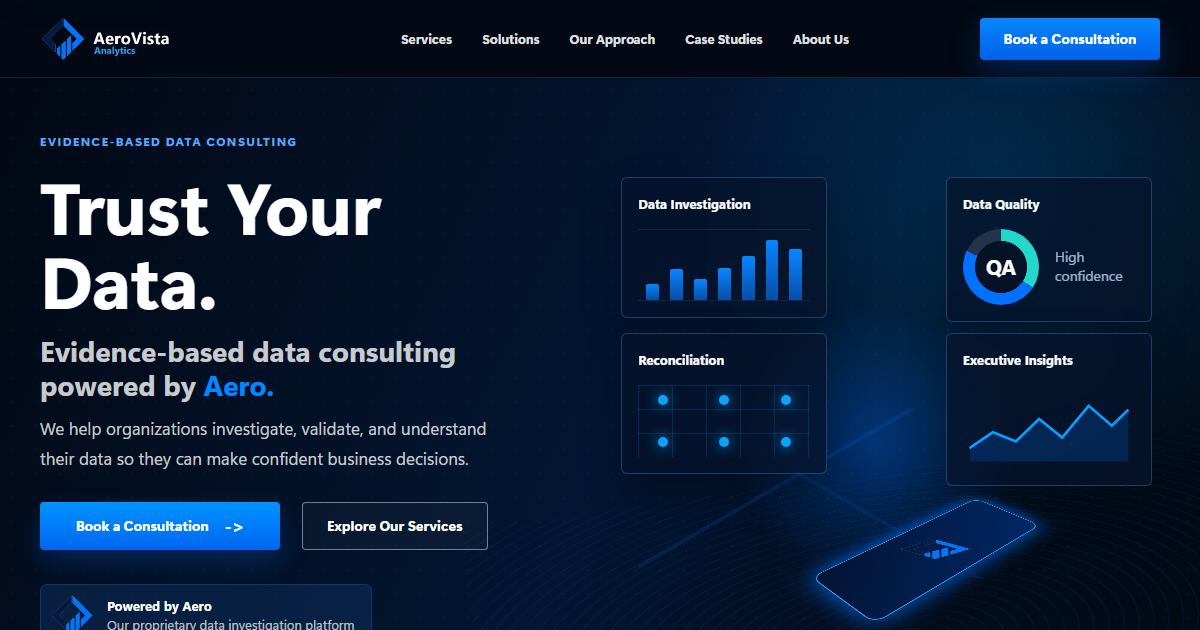
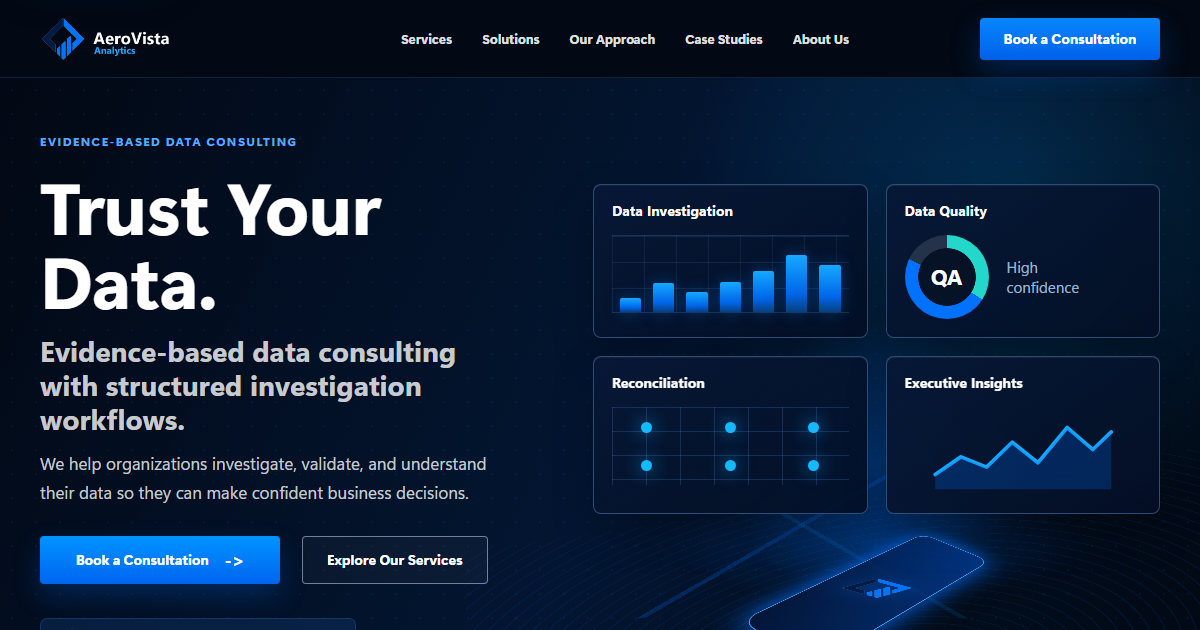
Clarify homepage hero visual

diff --git a/styles.css b/styles.css
@@ -3559,61 +3559,72 @@ body.home-render {
 
 .render-hero-visual {
   position: relative;
+  display: grid;
+  grid-template-columns: repeat(2, minmax(0, 1fr));
+  gap: 18px;
+  align-content: start;
   min-height: 430px;
+  padding: 6px 0 122px;
 }
 
 .render-hero-visual::before {
   position: absolute;
-  right: 8%;
-  bottom: 26px;
-  left: 8%;
-  height: 170px;
+  right: 4%;
+  bottom: 18px;
+  left: 4%;
+  height: 150px;
   background:
-    linear-gradient(150deg, transparent 0 35%, rgba(0, 114, 255, 0.22) 35% 36%, transparent 36% 100%),
-    linear-gradient(30deg, transparent 0 44%, rgba(0, 114, 255, 0.15) 44% 45%, transparent 45% 100%);
-  opacity: 0.7;
+    radial-gradient(ellipse at center, rgba(0, 114, 255, 0.28), transparent 58%),
+    linear-gradient(150deg, transparent 0 36%, rgba(0, 114, 255, 0.26) 36% 37%, transparent 37% 100%),
+    linear-gradient(30deg, transparent 0 44%, rgba(0, 163, 255, 0.16) 44% 45%, transparent 45% 100%);
+  opacity: 0.86;
   content: "";
 }
 
 .data-panel {
-  position: absolute;
-  width: 206px;
-  min-height: 124px;
-  padding: 16px;
-  background: rgba(5, 19, 42, 0.74);
-  border: 1px solid rgba(113, 179, 255, 0.28);
-  border-radius: 6px;
-  box-shadow: 0 18px 42px rgba(0, 0, 0, 0.24);
-  backdrop-filter: blur(8px);
+  position: relative;
+  z-index: 1;
+  width: auto;
+  min-height: 138px;
+  padding: 18px;
+  overflow: hidden;
+  background:
+    linear-gradient(145deg, rgba(7, 24, 54, 0.96), rgba(3, 15, 37, 0.92));
+  border: 1px solid rgba(122, 190, 255, 0.34);
+  border-radius: 8px;
+  box-shadow:
+    inset 0 1px 0 rgba(255, 255, 255, 0.06),
+    0 18px 42px rgba(0, 0, 0, 0.24);
 }
 
 .data-panel p {
-  margin: 0 0 14px;
+  margin: 0 0 16px;
   color: #ffffff;
-  font-size: 13px;
-  font-weight: 850;
-}
-
-.panel-bars {
-  top: 2px;
-  left: 28px;
+  font-size: 14px;
+  font-weight: 900;
+  line-height: 1.15;
 }
 
 .panel-bars div {
   display: flex;
-  height: 72px;
+  height: 78px;
   align-items: end;
-  gap: 11px;
-  padding: 0 8px;
-  border-top: 1px solid rgba(124, 179, 255, 0.12);
-  border-bottom: 1px solid rgba(124, 179, 255, 0.12);
+  gap: 12px;
+  padding: 10px 8px 0;
+  background:
+    linear-gradient(rgba(98, 173, 255, 0.12) 1px, transparent 1px),
+    linear-gradient(90deg, rgba(98, 173, 255, 0.1) 1px, transparent 1px);
+  background-size: 100% 26px, 32px 100%;
+  border-top: 1px solid rgba(124, 179, 255, 0.18);
+  border-bottom: 1px solid rgba(124, 179, 255, 0.18);
 }
 
 .panel-bars span {
   display: block;
   flex: 1;
-  background: linear-gradient(180deg, #0786ff, #064ea8);
+  background: linear-gradient(180deg, #16a8ff, #0066e8 68%, #074082);
   border-radius: 2px 2px 0 0;
+  box-shadow: 0 0 16px rgba(0, 132, 255, 0.34);
 }
 
 .panel-bars span:nth-child(1) { height: 22%; }
@@ -3625,11 +3636,9 @@ body.home-render {
 .panel-bars span:nth-child(7) { height: 72%; }
 
 .panel-score {
-  top: 2px;
-  right: 8px;
   display: grid;
-  grid-template-columns: 78px 1fr;
-  column-gap: 14px;
+  grid-template-columns: 86px 1fr;
+  column-gap: 16px;
   align-items: center;
 }
 
@@ -3639,8 +3648,8 @@ body.home-render {
 
 .score-ring {
   display: grid;
-  width: 76px;
-  height: 76px;
+  width: 84px;
+  height: 84px;
   place-items: center;
   background:
     radial-gradient(circle at center, #061326 0 48%, transparent 49%),
@@ -3650,81 +3659,77 @@ body.home-render {
 
 .score-ring strong {
   color: #ffffff;
-  font-size: 21px;
+  font-size: 22px;
 }
 
 .panel-score > span {
   color: rgba(197, 224, 255, 0.78);
-  font-size: 14px;
+  font-size: 15px;
   line-height: 1.35;
-}
-
-.panel-grid {
-  top: 158px;
-  left: 28px;
 }
 
 .panel-grid div {
   display: grid;
   grid-template-columns: repeat(3, 1fr);
-  gap: 13px;
-  min-height: 72px;
+  gap: 14px;
+  min-height: 78px;
+  padding: 8px 0;
   background:
-    linear-gradient(rgba(50, 142, 255, 0.18) 1px, transparent 1px),
-    linear-gradient(90deg, rgba(50, 142, 255, 0.18) 1px, transparent 1px);
+    linear-gradient(rgba(82, 160, 255, 0.2) 1px, transparent 1px),
+    linear-gradient(90deg, rgba(82, 160, 255, 0.2) 1px, transparent 1px);
   background-size: 34px 24px;
 }
 
 .panel-grid span {
-  width: 10px;
-  height: 10px;
+  width: 11px;
+  height: 11px;
   place-self: center;
-  background: #0aa3ff;
+  background: #15b9ff;
   border-radius: 50%;
-  box-shadow: 0 0 14px rgba(0, 163, 255, 0.9);
-}
-
-.panel-line {
-  top: 158px;
-  right: 8px;
+  box-shadow: 0 0 18px rgba(0, 163, 255, 0.95);
 }
 
 .panel-line svg {
   width: 100%;
-  height: 84px;
+  height: 88px;
 }
 
 .panel-line polyline {
   fill: none;
-  stroke: #0aa3ff;
-  stroke-width: 4;
+  stroke: #13aaff;
+  stroke-width: 5;
+  stroke-linecap: round;
+  stroke-linejoin: round;
 }
 
 .panel-line path {
-  fill: rgba(0, 114, 255, 0.2);
+  fill: rgba(0, 114, 255, 0.24);
 }
 
 .aero-platform {
   position: absolute;
-  right: 110px;
-  bottom: 10px;
+  z-index: 0;
+  right: 50%;
+  bottom: 0;
   display: grid;
-  width: 230px;
-  height: 92px;
+  width: 252px;
+  height: 96px;
   place-items: center;
-  background: linear-gradient(145deg, rgba(2, 19, 50, 0.98), rgba(0, 45, 118, 0.82));
+  background:
+    linear-gradient(145deg, rgba(3, 20, 52, 0.98), rgba(0, 58, 146, 0.82));
   border: 1px solid rgba(70, 172, 255, 0.9);
-  border-radius: 12px;
+  border-radius: 16px;
   box-shadow:
-    0 0 28px rgba(0, 114, 255, 0.9),
+    0 0 34px rgba(0, 114, 255, 0.92),
     0 24px 70px rgba(0, 0, 0, 0.38);
-  transform: perspective(500px) rotateX(58deg) rotateZ(-45deg);
+  transform: translateX(50%) perspective(520px) rotateX(58deg) rotateZ(-45deg);
 }
 
 .aero-platform img {
   width: 72px;
   height: 72px;
   object-fit: contain;
+  filter: drop-shadow(0 0 16px rgba(0, 114, 255, 0.38));
   transform: rotate(45deg) rotateX(-58deg);
 }
 
@@ -4054,11 +4059,12 @@ body.home-render {
   }
 
   .data-panel {
-    width: 190px;
+    width: auto;
   }
 
   .aero-platform {
-    right: 88px;
+    right: 50%;
+    width: 226px;
   }
 }
 
@@ -4151,6 +4157,7 @@ body.home-render {
   .render-hero-visual {
     min-height: 390px;
     max-width: 620px;
+    padding-bottom: 118px;
   }
 
   .render-service-grid {
@@ -4198,7 +4205,9 @@ body.home-render {
   }
 
   .render-hero-visual {
-    min-height: 620px;
+    grid-template-columns: 1fr;
+    min-height: auto;
+    padding-bottom: 0;
   }
 
   .data-panel {

diff --git a/about.html b/about.html
@@ -19,7 +19,7 @@
     <meta name="twitter:image" content="https://aerovistaanalytics.com/assets/aerovista-social-card.png">
     <link rel="icon" href="assets/favicon.png" type="image/png">
     <link rel="manifest" href="site.webmanifest">
-    <link rel="stylesheet" href="styles.css?v=20260713-launch">
+    <link rel="stylesheet" href="styles.css?v=20260713-clear-visual">
   </head>
   <body class="render-page">
     <a class="skip-link" href="#main-content">Skip to main content</a>

diff --git a/case-studies.html b/case-studies.html
@@ -19,7 +19,7 @@
     <meta name="twitter:image" content="https://aerovistaanalytics.com/assets/aerovista-social-card.png">
     <link rel="icon" href="assets/favicon.png" type="image/png">
     <link rel="manifest" href="site.webmanifest">
-    <link rel="stylesheet" href="styles.css?v=20260713-launch">
+    <link rel="stylesheet" href="styles.css?v=20260713-clear-visual">
   </head>
   <body class="render-page">
     <a class="skip-link" href="#main-content">Skip to main content</a>

diff --git a/case-studies/nafi-membership-data-migration/index.html b/case-studies/nafi-membership-data-migration/index.html
@@ -19,7 +19,7 @@
     <meta name="twitter:image" content="https://aerovistaanalytics.com/assets/aerovista-social-card.png">
     <link rel="icon" href="../../assets/favicon.png" type="image/png">
     <link rel="manifest" href="../../site.webmanifest">
-    <link rel="stylesheet" href="../../styles.css?v=20260713-launch">
+    <link rel="stylesheet" href="../../styles.css?v=20260713-clear-visual">
   </head>
   <body class="render-page">
     <a class="skip-link" href="#main-content">Skip to main content</a>

diff --git a/contact.html b/contact.html
@@ -1,6 +1,6 @@
 <!doctype html>
 <html lang="en">
-  <head><meta charset="utf-8"><meta name="viewport" content="width=device-width, initial-scale=1"><title>Contact AeroVista Analytics | Book a Consultation</title><meta name="description" content="Contact AeroVista Analytics to schedule a consultation for data trust, migration readiness, reconciliation, executive reporting, or data investigation consulting."><link rel="canonical" href="https://aerovistaanalytics.com/contact.html"><meta name="theme-color" content="#061a42"><meta property="og:type" content="website"><meta property="og:site_name" content="AeroVista Analytics"><meta property="og:title" content="Contact AeroVista Analytics | Book a Consultation"><meta property="og:description" content="Start a conversation about data trust, migration readiness, reconciliation, executive reporting, or data investigation."><meta property="og:url" content="https://aerovistaanalytics.com/contact.html"><meta property="og:image" content="https://aerovistaanalytics.com/assets/aerovista-social-card.png"><meta name="twitter:card" content="summary_large_image"><meta name="twitter:title" content="Contact AeroVista Analytics | Book a Consultation"><meta name="twitter:description" content="Start a conversation about a messy data, reconciliation, reporting, or migration readiness challenge."><meta name="twitter:image" content="https://aerovistaanalytics.com/assets/aerovista-social-card.png"><link rel="icon" href="assets/favicon.png" type="image/png"><link rel="manifest" href="site.webmanifest"><link rel="stylesheet" href="styles.css?v=[phone redacted]-launch"></head>
+  <head><meta charset="utf-8"><meta name="viewport" content="width=device-width, initial-scale=1"><title>Contact AeroVista Analytics | Book a Consultation</title><meta name="description" content="Contact AeroVista Analytics to schedule a consultation for data trust, migration readiness, reconciliation, executive reporting, or data investigation consulting."><link rel="canonical" href="https://aerovistaanalytics.com/contact.html"><meta name="theme-color" content="#061a42"><meta property="og:type" content="website"><meta property="og:site_name" content="AeroVista Analytics"><meta property="og:title" content="Contact AeroVista Analytics | Book a Consultation"><meta property="og:description" content="Start a conversation about data trust, migration readiness, reconciliation, executive reporting, or data investigation."><meta property="og:url" content="https://aerovistaanalytics.com/contact.html"><meta property="og:image" content="https://aerovistaanalytics.com/assets/aerovista-social-card.png"><meta name="twitter:card" content="summary_large_image"><meta name="twitter:title" content="Contact AeroVista Analytics | Book a Consultation"><meta name="twitter:description" content="Start a conversation about a messy data, reconciliation, reporting, or migration readiness challenge."><meta name="twitter:image" content="https://aerovistaanalytics.com/assets/aerovista-social-card.png"><link rel="icon" href="assets/favicon.png" type="image/png"><link rel="manifest" href="site.webmanifest"><link rel="stylesheet" href="styles.css?v=[phone redacted]-clear-visual"></head>
   <body class="render-page"><a class="skip-link" href="#main-content">Skip to main content</a><header class="site-header"><div class="container header-inner"><a class="brand" href="index.html" aria-label="AeroVista Analytics home"><img src="assets/aerovista-logo-exact-light.png" alt="AeroVista Analytics"></a><button class="nav-toggle" type="button" aria-label="Open navigation" aria-expanded="false" aria-controls="site-nav"><span></span><span></span><span></span></button><nav class="site-nav" id="site-nav" aria-label="Primary navigation"><a href="services.html">Services</a><a href="plans.html">Solutions</a><a href="process.html">Our Approach</a><a href="case-studies.html">Case Studies</a><a href="about.html">About Us</a></nav><a class="header-cta" href="contact.html">Book a Consultation</a></div></header>
     <main id="main-content"><section class="page-hero"><div class="container page-hero-inner"><p>Contact</p><h1>Schedule a Consultation</h1><a class="btn btn-secondary" href="mailto:[email redacted]">Email AeroVista Directly</a></div></section>
       <section class="section request-section"><div class="container request-grid"><div class="request-copy"><div class="section-heading"><p>Get Started</p><h2>Tell Me About the Data Challenge</h2><span aria-hidden="true"></span></div><p>Share what you are working on, and I will follow up with next steps, availability, and a practical approach tailored to your goals.</p><div class="contact-methods" aria-label="Contact methods"><a href="mailto:[email redacted]"><svg viewBox="0 0 24 24" aria-hidden="true"><path d="M4 6h16v12H4V6Z"></path><path d="m4 7 8 6 8-6"></path></svg>[email redacted]</a><span><svg viewBox="0 0 24 24" aria-hidden="true"><path d="M12 21s7-6.2 7-12A7 7 0 0 0 5 9c0 5.8 7 12 7 12Z"></path><circle cx="12" cy="9" r="2.5"></circle></svg>Leesburg, VA</span></div></div>

diff --git a/index.html b/index.html
@@ -24,7 +24,7 @@
     <meta name="twitter:image" content="https://aerovistaanalytics.com/assets/aerovista-social-card.png">
     <link rel="icon" href="assets/favicon.png" type="image/png">
     <link rel="manifest" href="site.webmanifest">
-    <link rel="stylesheet" href="styles.css?v=20260713-launch">
+    <link rel="stylesheet" href="styles.css?v=20260713-clear-visual">
     <script type="application/ld+json">
       {
         "@context": "https://schema.org",

diff --git a/plans.html b/plans.html
@@ -1,6 +1,6 @@
 <!doctype html>
 <html lang="en">
-  <head><meta charset="utf-8"><meta name="viewport" content="width=device-width, initial-scale=1"><title>Data Trust Solutions | AeroVista Analytics</title><meta name="description" content="Customized AeroVista Analytics solutions for data trust audits, migration readiness, reconciliation, executive reporting, and data investigation."><link rel="canonical" href="https://aerovistaanalytics.com/plans.html"><meta name="theme-color" content="#061a42"><meta property="og:type" content="website"><meta property="og:site_name" content="AeroVista Analytics"><meta property="og:title" content="Data Trust Solutions | AeroVista Analytics"><meta property="og:description" content="Customized consulting solutions for messy data, migration readiness, reconciliation, executive reporting, and investigation."><meta property="og:url" content="https://aerovistaanalytics.com/plans.html"><meta property="og:image" content="https://aerovistaanalytics.com/assets/aerovista-social-card.png"><meta name="twitter:card" content="summary_large_image"><meta name="twitter:title" content="Data Trust Solutions | AeroVista Analytics"><meta name="twitter:description" content="Customized consulting solutions for complex business data problems."><meta name="twitter:image" content="https://aerovistaanalytics.com/assets/aerovista-social-card.png"><link rel="icon" href="assets/favicon.png" type="image/png"><link rel="manifest" href="site.webmanifest"><link rel="stylesheet" href="styles.css?v=20260713-launch"></head>
+  <head><meta charset="utf-8"><meta name="viewport" content="width=device-width, initial-scale=1"><title>Data Trust Solutions | AeroVista Analytics</title><meta name="description" content="Customized AeroVista Analytics solutions for data trust audits, migration readiness, reconciliation, executive reporting, and data investigation."><link rel="canonical" href="https://aerovistaanalytics.com/plans.html"><meta name="theme-color" content="#061a42"><meta property="og:type" content="website"><meta property="og:site_name" content="AeroVista Analytics"><meta property="og:title" content="Data Trust Solutions | AeroVista Analytics"><meta property="og:description" content="Customized consulting solutions for messy data, migration readiness, reconciliation, executive reporting, and investigation."><meta property="og:url" content="https://aerovistaanalytics.com/plans.html"><meta property="og:image" content="https://aerovistaanalytics.com/assets/aerovista-social-card.png"><meta name="twitter:card" content="summary_large_image"><meta name="twitter:title" content="Data Trust Solutions | AeroVista Analytics"><meta name="twitter:description" content="Customized consulting solutions for complex business data problems."><meta name="twitter:image" content="https://aerovistaanalytics.com/assets/aerovista-social-card.png"><link rel="icon" href="assets/favicon.png" type="image/png"><link rel="manifest" href="site.webmanifest"><link rel="stylesheet" href="styles.css?v=20260713-clear-visual"></head>
   <body class="render-page"><a class="skip-link" href="#main-content">Skip to main content</a><header class="site-header"><div class="container header-inner"><a class="brand" href="index.html" aria-label="AeroVista Analytics home"><img src="assets/aerovista-logo-exact-light.png" alt="AeroVista Analytics"></a><button class="nav-toggle" type="button" aria-label="Open navigation" aria-expanded="false" aria-controls="site-nav"><span></span><span></span><span></span></button><nav class="site-nav" id="site-nav" aria-label="Primary navigation"><a href="services.html">Services</a><a class="active" href="plans.html">Solutions</a><a href="process.html">Our Approach</a><a href="case-studies.html">Case Studies</a><a href="about.html">About Us</a></nav><a class="header-cta" href="contact.html?service=Data%20Trust%20Audits">Book a Consultation</a></div></header>
     <main id="main-content"><section class="page-hero"><div class="container page-hero-inner"><p>Solutions</p><h1>Customized Data Trust Solutions, Not Commodity Packages</h1><a class="btn btn-primary" href="contact.html?service=Data%20Trust%20Audits">Book a Consultation <span aria-hidden="true">-&gt;</span></a></div></section>
       <section class="section plan-section"><div class="container plan-grid"><article class="plan-card"><p class="plan-label">Audit</p><h2>Data Trust Review</h2><p>Best for teams that need clarity before committing to a migration, dashboard, automation, or executive reporting initiative.</p><ul><li>Discovery call and source data review</li><li>Current-state quality, logic, and workflow assessment</li><li>Prioritized risks and next-step options</li></ul><a class="btn btn-secondary-light" href="contact.html?service=Data%20Trust%20Audits">Book a Consultation</a></article><article class="plan-card featured-plan"><p class="plan-label">Reconcile</p><h2>Migration Readiness Project</h2><p>Best for defined initiatives involving cleanup, matching, reconciliation, import readiness, reporting logic, or decision-support deliverables.</p><ul><li>Defined scope, timeline, and communication cadence</li><li>Data preparation, validation, and reconciliation</li><li>Workpapers, deliverables, and executive-ready outputs</li></ul><a class="btn btn-primary" href="contact.html?service=Migration%20Readiness">Book a Consultation <span aria-hidden="true">-&gt;</span></a></article><article class="plan-card"><p class="plan-label">Investigate</p><h2>Reporting &amp; Investigation Support</h2><p>Best for organizations that need recurring analysis, reporting governance, source-of-truth logic, and practical decision support.</p><ul><li>Recurring data investigation and reporting support</li><li>KPI review and evidence-based analysis</li><li>Ongoing advisory, documentation, and refinement</li></ul><a class="btn btn-secondary-light" href="contact.html?service=Business%20Intelligence%20%26%20Executive%20Reporting">Book a Consultation</a></article></div></section>

diff --git a/privacy.html b/privacy.html
@@ -19,7 +19,7 @@
     <meta name="twitter:image" content="https://aerovistaanalytics.com/assets/aerovista-social-card.png">
     <link rel="icon" href="assets/favicon.png" type="image/png">
     <link rel="manifest" href="site.webmanifest">
-    <link rel="stylesheet" href="styles.css?v=20260713-launch">
+    <link rel="stylesheet" href="styles.css?v=20260713-clear-visual">
   </head>
   <body class="render-page">
     <a class="skip-link" href="#main-content">Skip to main content</a>

diff --git a/process.html b/process.html
@@ -1,6 +1,6 @@
 <!doctype html>
 <html lang="en">
-  <head><meta charset="utf-8"><meta name="viewport" content="width=device-width, initial-scale=1"><title>Our Approach to Data Trust Consulting | AeroVista Analytics</title><meta name="description" content="See AeroVista Analytics' consulting process for data trust audits, migration readiness, reconciliation, investigation, validation, delivery, and ongoing support."><link rel="canonical" href="https://aerovistaanalytics.com/process.html"><meta name="theme-color" content="#061a42"><meta property="og:type" content="website"><meta property="og:site_name" content="AeroVista Analytics"><meta property="og:title" content="Our Approach to Data Trust Consulting | AeroVista Analytics"><meta property="og:description" content="A clear process from discovery to evidence-based findings, validated delivery, and support."><meta property="og:url" content="https://aerovistaanalytics.com/process.html"><meta property="og:image" content="https://aerovistaanalytics.com/assets/aerovista-social-card.png"><meta name="twitter:card" content="summary_large_image"><meta name="twitter:title" content="Our Approach to Data Trust Consulting | AeroVista Analytics"><meta name="twitter:description" content="A clear process from discovery to evidence-based findings, validated delivery, and support."><meta name="twitter:image" content="https://aerovistaanalytics.com/assets/aerovista-social-card.png"><link rel="icon" href="assets/favicon.png" type="image/png"><link rel="manifest" href="site.webmanifest"><link rel="stylesheet" href="styles.css?v=20260713-launch"></head>
+  <head><meta charset="utf-8"><meta name="viewport" content="width=device-width, initial-scale=1"><title>Our Approach to Data Trust Consulting | AeroVista Analytics</title><meta name="description" content="See AeroVista Analytics' consulting process for data trust audits, migration readiness, reconciliation, investigation, validation, delivery, and ongoing support."><link rel="canonical" href="https://aerovistaanalytics.com/process.html"><meta name="theme-color" content="#061a42"><meta property="og:type" content="website"><meta property="og:site_name" content="AeroVista Analytics"><meta property="og:title" content="Our Approach to Data Trust Consulting | AeroVista Analytics"><meta property="og:description" content="A clear process from discovery to evidence-based findings, validated delivery, and support."><meta property="og:url" content="https://aerovistaanalytics.com/process.html"><meta property="og:image" content="https://aerovistaanalytics.com/assets/aerovista-social-card.png"><meta name="twitter:card" content="summary_large_image"><meta name="twitter:title" content="Our Approach to Data Trust Consulting | AeroVista Analytics"><meta name="twitter:description" content="A clear process from discovery to evidence-based findings, validated delivery, and support."><meta name="twitter:image" content="https://aerovistaanalytics.com/assets/aerovista-social-card.png"><link rel="icon" href="assets/favicon.png" type="image/png"><link rel="manifest" href="site.webmanifest"><link rel="stylesheet" href="styles.css?v=20260713-clear-visual"></head>
   <body class="render-page"><a class="skip-link" href="#main-content">Skip to main content</a><header class="site-header"><div class="container header-inner"><a class="brand" href="index.html" aria-label="AeroVista Analytics home"><img src="assets/aerovista-logo-exact-light.png" alt="AeroVista Analytics"></a><button class="nav-toggle" type="button" aria-label="Open navigation" aria-expanded="false" aria-controls="site-nav"><span></span><span></span><span></span></button><nav class="site-nav" id="site-nav" aria-label="Primary navigation"><a href="services.html">Services</a><a href="plans.html">Solutions</a><a class="active" href="process.html">Our Approach</a><a href="case-studies.html">Case Studies</a><a href="about.html">About Us</a></nav><a class="header-cta" href="contact.html?service=Data%20Trust%20Audits">Book a Consultation</a></div></header>
     <main id="main-content"><section class="page-hero"><div class="container page-hero-inner"><p>Our Approach</p><h1>A Clear Path From Messy Data to Evidence Leaders Can Trust</h1><a class="btn btn-primary" href="contact.html?service=Data%20Trust%20Audits">Book a Consultation <span aria-hidden="true">-&gt;</span></a></div></section>
       <section class="section process-section"><div class="container process-list"><article><span>01</span><h2>Discovery Call</h2><p>Clarify business goals, stakeholders, data sources, systems, constraints, timelines, and the decisions the work needs to support.</p></article><article><span>02</span><h2>Proposal</h2><p>Define scope, deliverables, timeline, assumptions, review steps, communication cadence, and pricing before work begins.</p></article><article><span>03</span><h2>Data Assessment</h2><p>Review source data, definitions, quality issues, migration risk, reporting gaps, and workflow dependencies.</p></article><article><span>04</span><h2>Implementation</h2><p>Build the analytics model, migration workflow, dashboard, reporting automation, reconciliation process, or decision-support deliverable.</p></article><article><span>05</span><h2>Validation</h2><p>Validate outputs against source data, business rules, assumptions, stakeholder expectations, and known exceptions.</p></article><article><span>06</span><h2>Delivery</h2><p>Provide deliverables, documentation, recommendations, review notes, and practical handoff guidance.</p></article><article><span>07</span><h2>Ongoing Support</h2><p>Support refinements, post-launch validation, recurring reporting improvements, and future analytics priorities when needed.</p></article></div></section>

diff --git a/resources/member-data-readiness-kit/index.html b/resources/member-data-readiness-kit/index.html
@@ -19,7 +19,7 @@
     <meta name="twitter:image" content="https://aerovistaanalytics.com/assets/aerovista-social-card.png">
     <link rel="icon" href="../../assets/favicon.png" type="image/png">
     <link rel="manifest" href="../../site.webmanifest">
-    <link rel="stylesheet" href="../../styles.css?v=20260713-launch">
+    <link rel="stylesheet" href="../../styles.css?v=20260713-clear-visual">
   </head>
   <body class="render-page">
     <a class="skip-link" href="#main-content">Skip to main content</a>

diff --git a/resources/member-data-readiness-kit/thank-you/index.html b/resources/member-data-readiness-kit/thank-you/index.html
@@ -9,7 +9,7 @@
     <meta name="theme-color" content="#061a42">
     <link rel="icon" href="../../../assets/favicon.png" type="image/png">
     <link rel="manifest" href="../../../site.webmanifest">
-    <link rel="stylesheet" href="../../../styles.css?v=20260713-launch">
+    <link rel="stylesheet" href="../../../styles.css?v=20260713-clear-visual">
   </head>
   <body class="render-page">
     <a class="skip-link" href="#main-content">Skip to main content</a>

diff --git a/services.html b/services.html
@@ -19,7 +19,7 @@
     <meta name="twitter:image" content="https://aerovistaanalytics.com/assets/aerovista-social-card.png">
     <link rel="icon" href="assets/favicon.png" type="image/png">
     <link rel="manifest" href="site.webmanifest">
-    <link rel="stylesheet" href="styles.css?v=20260713-launch">
+    <link rel="stylesheet" href="styles.css?v=20260713-clear-visual">
   </head>
   <body class="render-page">
     <a class="skip-link" href="#main-content">Skip to main content</a>